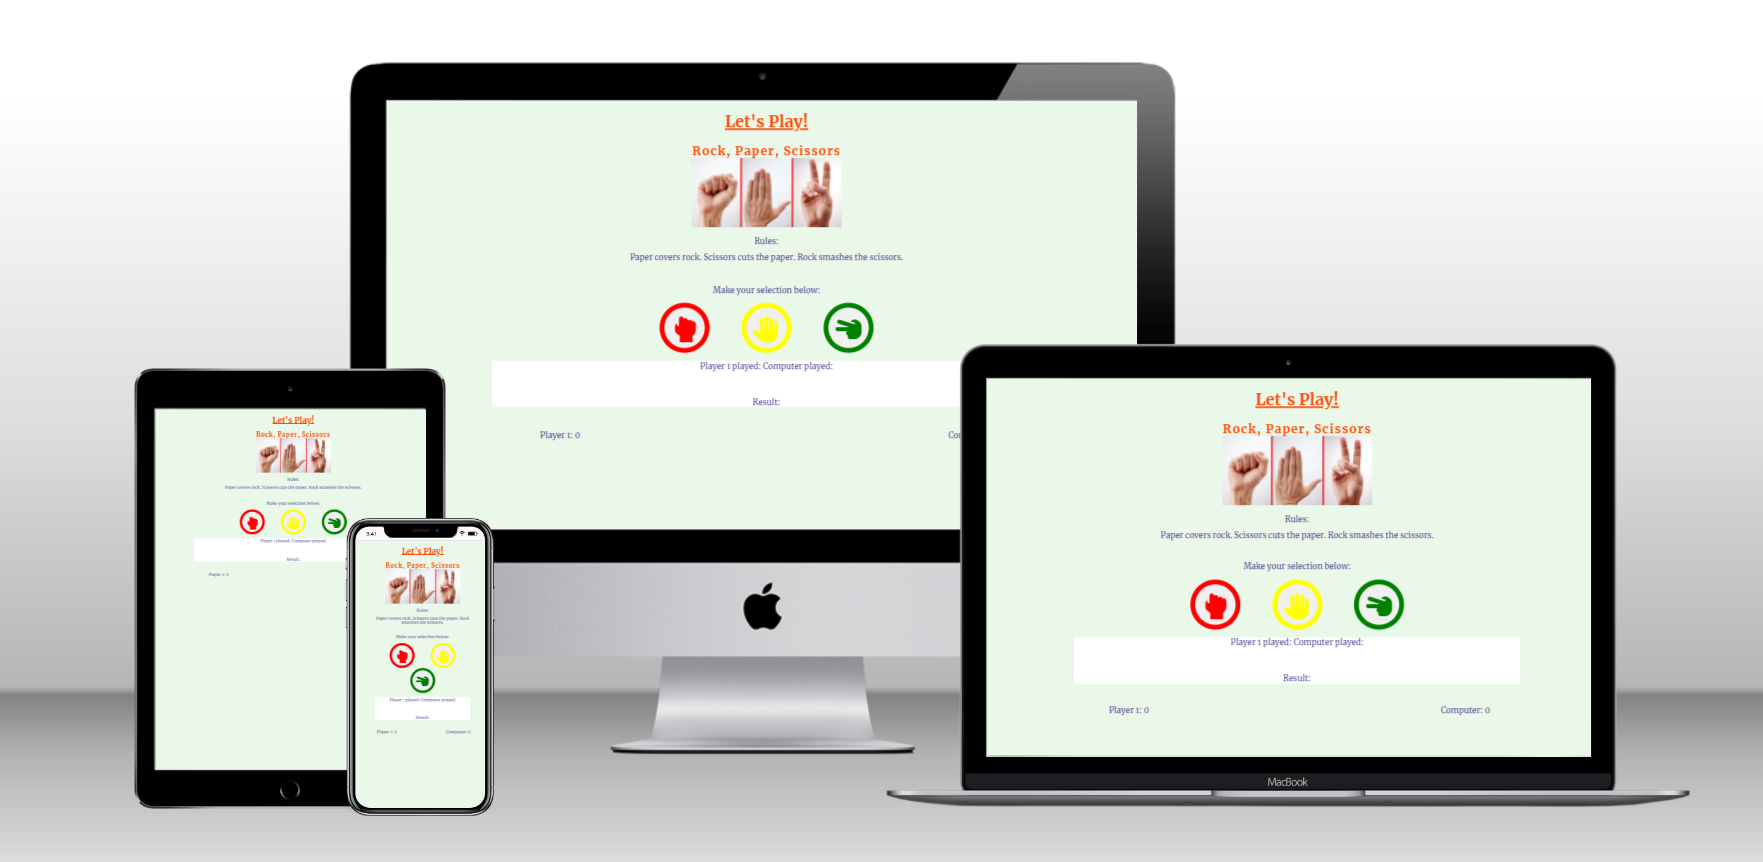
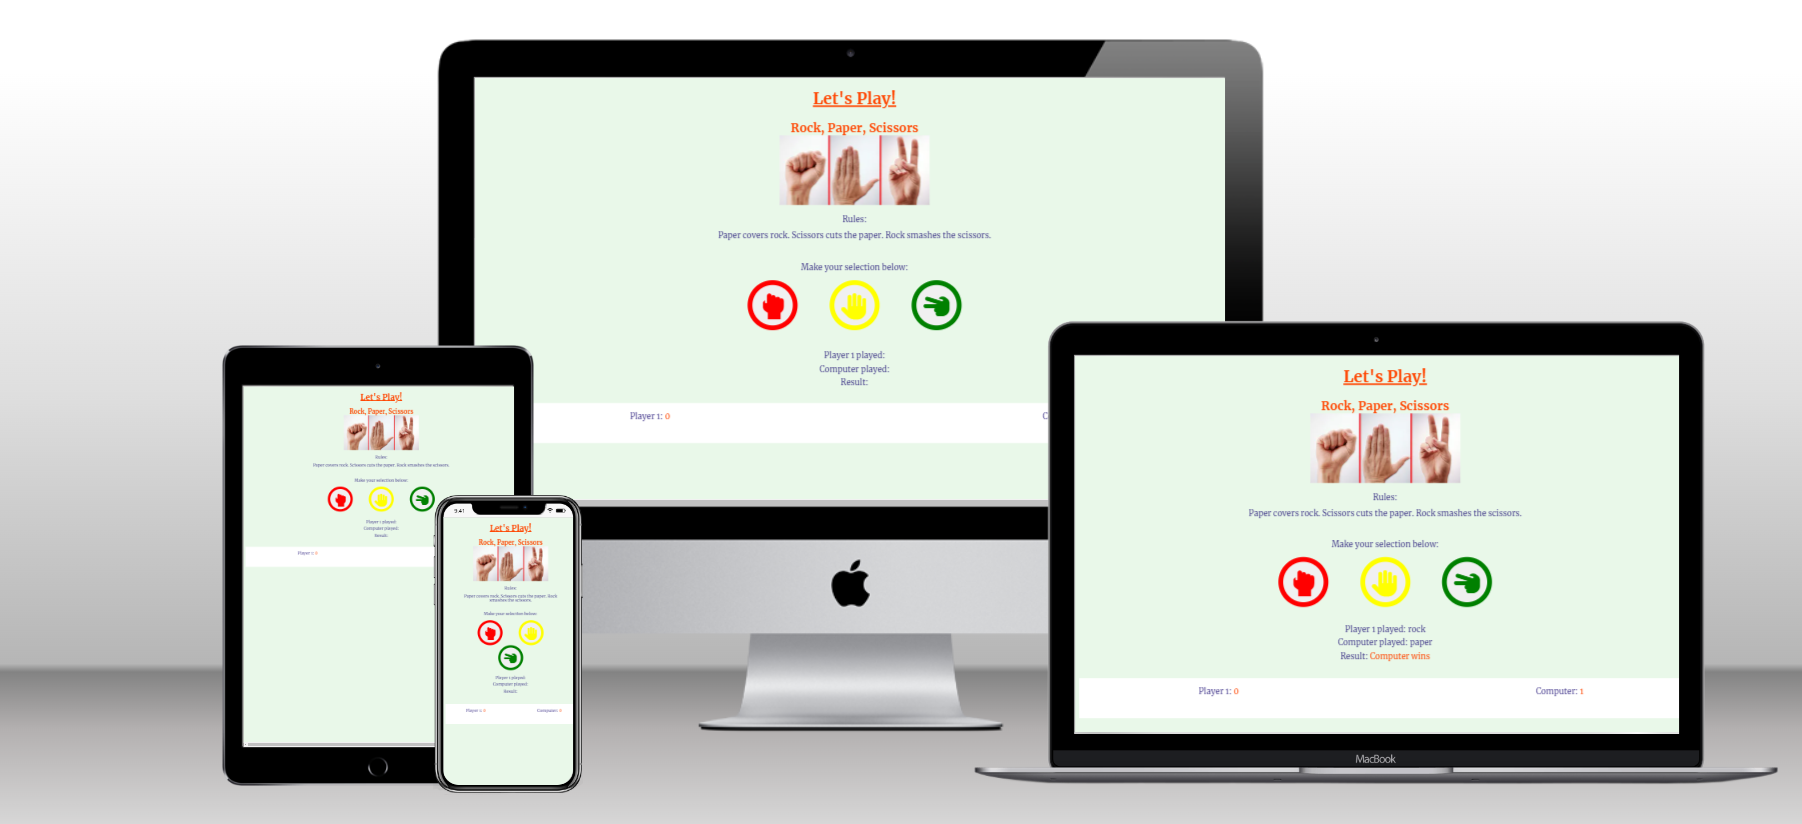
Fix checkResult function. Add to README features, testing and credits

Changed region(s): [[0.0, 0.0303, 1.0, 0.9709], [0.8111, 0.8192, 0.8735, 0.8495]]

diff --git a/assets/js/script.js b/assets/js/script.js
@@ -16,25 +16,18 @@ document.addEventListener("DOMContentLoaded", function() {
             
             playerChoiceDisplay.innerHTML = playerChoice;
             generateComputerChoice();
-            console.log(computerChoice);
             checkResult(computerChoice, playerChoice);
             
-            console.log(result);
         });
     }
 });
 
 const playerChoiceDisplay = document.getElementById("player-choice");
 const computerChoiceDisplay = document.getElementById("computer-choice");
-const playerScore = document.getElementById("player-score");
-const computerScore = document.getElementById("computer-score");
-let resultDisplay = document.getElementById("result");
 const choices = ["rock", "paper", "scissors"];
-let playerChoice;
 let computerChoice;
     
-
-    
+ 
 /** 
  * Generate the computers random selection of rock, paper 
  * or scissors */ 
@@ -44,6 +37,7 @@ function generateComputerChoice() {
         computerChoiceDisplay.innerHTML = computerChoice;
             
 }
+
 
 /**
  *  Compares computer and player choice and decides winning result.
@@ -58,49 +52,51 @@ function checkResult(computerChoice, playerChoice) {
     }
     else if (computerChoice === 'rock' && playerChoice === 'paper') {
         result.innerHTML = "Player wins";
-        incrementPlayerScore()
+        incrementPlayerScore();
     }
     else if (computerChoice === 'rock' && playerChoice === 'scissors') {
         result.innerHTML = "Computer wins";
-        incrementComputerScore()
+        incrementComputerScore();
     }
     else if (computerChoice === 'paper' && playerChoice === 'rock') {
         result.innerHTML = "Computer wins";
-        incrementComputerScore()
+        incrementComputerScore();
     }
     else if (computerChoice === 'paper' && playerChoice === 'paper') {
         result.innerHTML = "Draw";
     }
     else if (computerChoice === 'paper' && playerChoice === 'scissors') {
         result.innerHTML = "Player wins";
-        incrementPlayerScore()
+        incrementPlayerScore();
     }
     else if (computerChoice === 'scissors' && playerChoice === 'rock') {
         result.innerHTML = "Player wins";
-        incrementPlayerScore()
+        incrementPlayerScore();
     }
     else if (computerChoice === 'scissors' && playerChoice === 'paper') {
         result.innerHTML = "Computer wins";
-        incrementComputerScore()
+        incrementComputerScore();
     }
     else if (computerChoice === 'scissors' && playerChoice === 'scissors') {
         result.innerHTML = "Draw";
     }
+    console.log(result);
 }
 
 
 /** Gets the current player score from the DOM and increments it by 1 */
 function incrementPlayerScore() {
 
-    let oldScore = parseInt(document.getElementById("player-score").innerText);
-    document.getElementById("player-score").innerText = ++oldScore;
+    let playerScore = parseInt(document.getElementById("player-score").innerText);
+    document.getElementById("player-score").innerText = ++playerScore;
+
 
 }
 
 /** Gets the current computer score from the DOM and increments it by 1 */
 function incrementComputerScore() {
 
-    let oldScore = parseInt(document.getElementById("computer-score").innerText);
-    document.getElementById("computer-score").innerText = ++oldScore;
+    let computerScore = parseInt(document.getElementById("computer-score").innerText);
+    document.getElementById("computer-score").innerText = ++computerScore;
 
 }

diff --git a/assets/css/style.css b/assets/css/style.css
@@ -28,6 +28,7 @@ body {
     line-height: 1rem;
 }
 
+
 /* Game layout*/
 .game-area {
     box-sizing: border-box;
@@ -37,9 +38,9 @@ body {
     padding: 1%;
 }
 
+
 /* Result area*/
 .result-area {
-    background-color:;
     padding: 3%;
     box-sizing: border-box;
     width: 75%;
@@ -48,36 +49,41 @@ body {
     margin-right: auto;
     line-height: 20px;
 }
+
 .result-area p {
     margin: 7px;
 }
+
 #result {
     color: orangered;
 }
 
 
+/* Footer and score section*/
 .footer {
     position: absolute;
     width: 100%;
     min-height: 80px;
     background-color: white;
 }
-/* Score section*/
+
 .scores1 {
     float: left;
     width: 45%;
 }
+
 #player-score {
     color: orangered;
 }
+
 .scores2 {
     float: right;
     width: 45%;
 }
+
 #computer-score {
     color: orangered;
 }
-
 
 
 /* Buttons style and hoover changes*/
@@ -96,7 +102,6 @@ body {
 .btn--big {
     padding-top: 10px;
     border-radius: 50%;
-    
     border: 10px solid;
     width: 100px;
     height: 100px;
@@ -109,6 +114,7 @@ body {
     border-color: red;
     color: red;
 }
+
 .btn--red:active,
 .btn--red:hover {
     background-color: darkred;
@@ -119,6 +125,7 @@ body {
     border-color: yellow;
     color: yellow;
 }
+
 .btn--yellow:active,
 .btn--yellow:hover {
     background-color: darkorange;
@@ -129,11 +136,13 @@ body {
     border-color: green;
     color: green;
 }
+
 .btn--green:active,
 .btn--green:hover {
     background-color: darkgreen;
     color: white;
 }
+
 
 /* Media Queries*/
 @media (min-width: 320px) and (max-width: 480px) {

diff --git a/index.html b/index.html
@@ -4,7 +4,8 @@
     <meta charset="UTF-8">
     <meta http-equiv="X-UA-Compatible" content="IE=edge">
     <meta name="viewport" content="width=device-width, initial-scale=1.0">
-    
+    <meta name="description" content="A simple rock paper scissors game for all ages">
+
     <!-- google fonts and font awesome-->
     <link rel="preconnect" href="https://fonts.googleapis.com">
     <link rel="preconnect" href="https://fonts.gstatic.com" crossorigin>

diff --git a/README.md b/README.md
@@ -8,6 +8,7 @@ Let's Play! is a site with a simple Rock, Paper, Scissors game. This game is des
 
 ## Features 
 
+
 ### Existing Features
 
 - __The Let's Play! Rock, Paper, Scissors Heading and Sub-Heading__
@@ -17,26 +18,39 @@ Let's Play! is a site with a simple Rock, Paper, Scissors game. This game is des
   <img src="./assets/images/readme-images/heading_sub-heading.png" alt="Heading and sub-heading">
   </p>
 
+
 - __Rules Area__
 
-- This section has a short explanation of the simple rules of the game.
-<p>
+  - This section has a short explanation of the simple rules of the game.
+  - It includes an image as a visual aid.
+  <p>
   <img src="./assets/images/readme-images/rules.png" alt="Rules area">
   </p>
+
 
 - __The Game Area__
 
   - This section will allow the user to play the rock, paper, scissors game. 
-  - 
-<p>
+  - The user will easily see the three buttons and choose one to select.
+  <p>
   <img src="./assets/images/readme-images/game-area.png" alt="Games area">
   </p>
 
 
+-__Results Area__
+
+  - This section will show the player selection, computer selection, and the resulting winner.
+  <p>
+  <img src="./assets/images/readme-images/results-area.png" alt="Results area">
+  </p>
+
 
 - __The Score Area__
 
-  - This section will allow the user to see exactly how many correct and incorrect answers they have provided. 
+  - This section will allow the user to an updating tally of both the player and computer scores.
+  <p>
+  <img src="./assets/images/readme-images/score-area.png" alt="Score area">
+  </p>
 
 
 
@@ -44,36 +58,36 @@ Let's Play! is a site with a simple Rock, Paper, Scissors game. This game is des
 
 ### Features Left to Implement
 
-- 
+-__Future Ideas__
+
+- In the future more simple games could be added to give variety to the site eg. Tic Tac Toe, a memory game etc.
+- A score table could be added so players could log their scores.
 
 ## Testing 
-
-In this section, you need to convince the assessor that you have conducted enough testing to legitimately believe that the site works well. Essentially, in this part you will want to go over all of your project’s features and ensure that they all work as intended, with the project providing an easy and straightforward way for the users to achieve their goals.
-
-In addition, you should mention in this section how your project looks and works on different browsers and screen sizes.
-
-You should also mention in this section any interesting bugs or problems you discovered during your testing, even if you haven't addressed them yet.
-
-If this section grows too long, you may want to split it off into a separate file and link to it from here.
-
 
 ### Validator Testing 
 
 - HTML
     - No errors were returned when passing through the official [W3C validator](https://validator.w3.org/nu/?doc=https%3A%2F%2Fcode-institute-org.github.io%2Flove-maths%2F)
+    <p>
+    <img src="./assets/images/readme-images/html-validate.png" alt="html validation test">
+    </p>
 - CSS
     - No errors were found when passing through the official [(Jigsaw) validator](https://jigsaw.w3.org/css-validator/validator?uri=https%3A%2F%2Fvalidator.w3.org%2Fnu%2F%3Fdoc%3Dhttps%253A%252F%252Fcode-institute-org.github.io%252Flove-maths%252F&profile=css3svg&usermedium=all&warning=1&vextwarning=&lang=en)
+    <p>
+    <img src="./assets/images/readme-images/css-validate.png" alt="css validation test">
+    </p>
 - JavaScript
     - No errors were found when passing through the official [Jshint validator](https://jshint.com/)
       - The following metrics were returned: 
-      - There are 11 functions in this file.
+      - There are 7 functions in this file.
       - Function with the largest signature takes 2 arguments, while the median is 0.
-      - Largest function has 10 statements in it, while the median is 3.
-      - The most complex function has a cyclomatic complexity value of 4 while the median is 2.
+      - Largest function has 20 statements in it, while the median is 2.
+      - The most complex function has a cyclomatic complexity value of 19 while the median is 1.
 
 ### Unfixed Bugs
 
-You will need to mention unfixed bugs and why they were not fixed. This section should include shortcomings of the frameworks or technologies used. Although time can be a big variable to consider, paucity of time and difficulty understanding implementation is not a valid reason to leave bugs unfixed. 
+
 
 ## Deployment
 
@@ -97,17 +111,20 @@ The live link can be found here - https://michellecorrigan.github.io/lets-play/
 
 ## Credits 
 
-In this section you need to reference where you got your content, media and extra help from. It is common practice to use code from other repositories and tutorials, however, it is important to be very specific about these sources to avoid plagiarism. 
-
-You can break the credits section up into Content and Media, depending on what you have included in your project. 
+-To complete this project I used Code Institute student template: [gitpod full template](https://github.com/Code-Institute-Org/gitpod-full-template)
 
 ### Content 
 
-- The text for the Home page was taken from Wikipedia Article A
-- Instructions on how to implement form validation on the Sign Up page was taken from [Specific YouTube Tutorial](https://www.youtube.com/)
-- The icons in the footer were taken from [Font Awesome](https://fontawesome.com/)
+- The font-family Merriweather was taken from Google Fonts [Google Fonts](https://fonts.google.com)
+- The icons were taken from [Font Awesome](https://fontawesome.com/)
+
 
 ### Media
 
-- The photos used on the home and sign up page are from This Open Source site
-- The images used for the gallery page were taken from this other open source site
+- The image in the rules area was taken from [this link](https://www.timeforkids.com/wp-content/uploads/2020/11/rockpaperscissors.jpg)
+
+### Code
+
+- The code for the basic html structure, button css styling, and the increment score function was taken from Code Institute's Love Maths walkthrough project, with alterations made to fit my own project.
+- The code for the play game function was taken from a Code Institute tutorial.
+- Help on how to code the javascript for this project was taken from this [YouTube](https://www.youtube.com/watch?v=RwFeg0cEZvQ) video by Ania Kubow.
